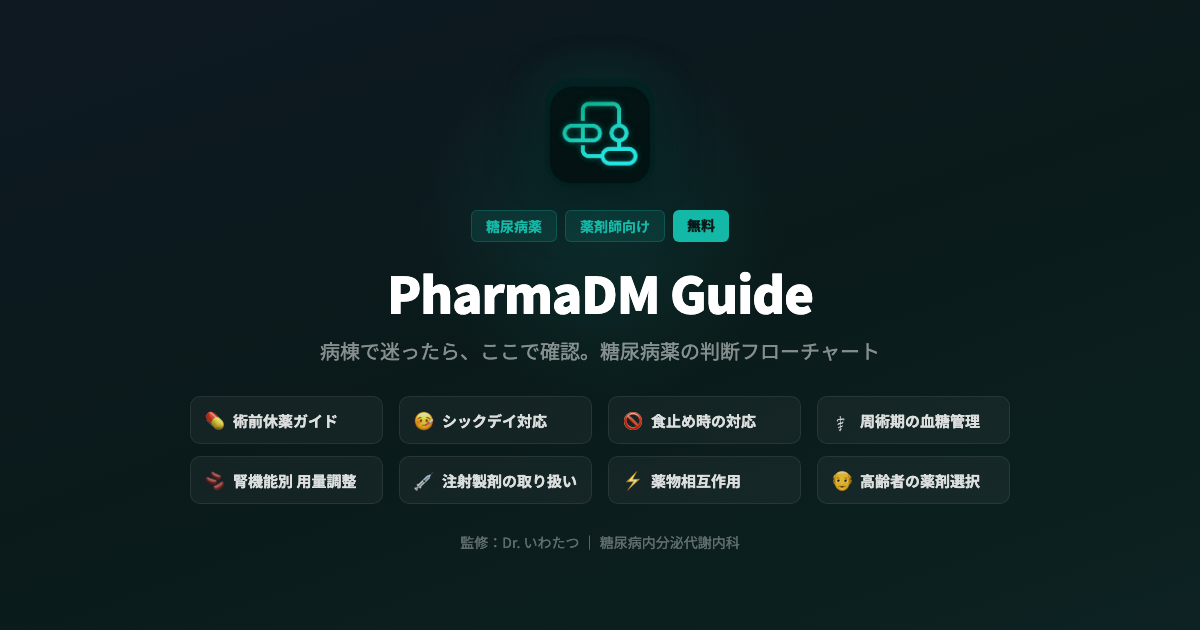
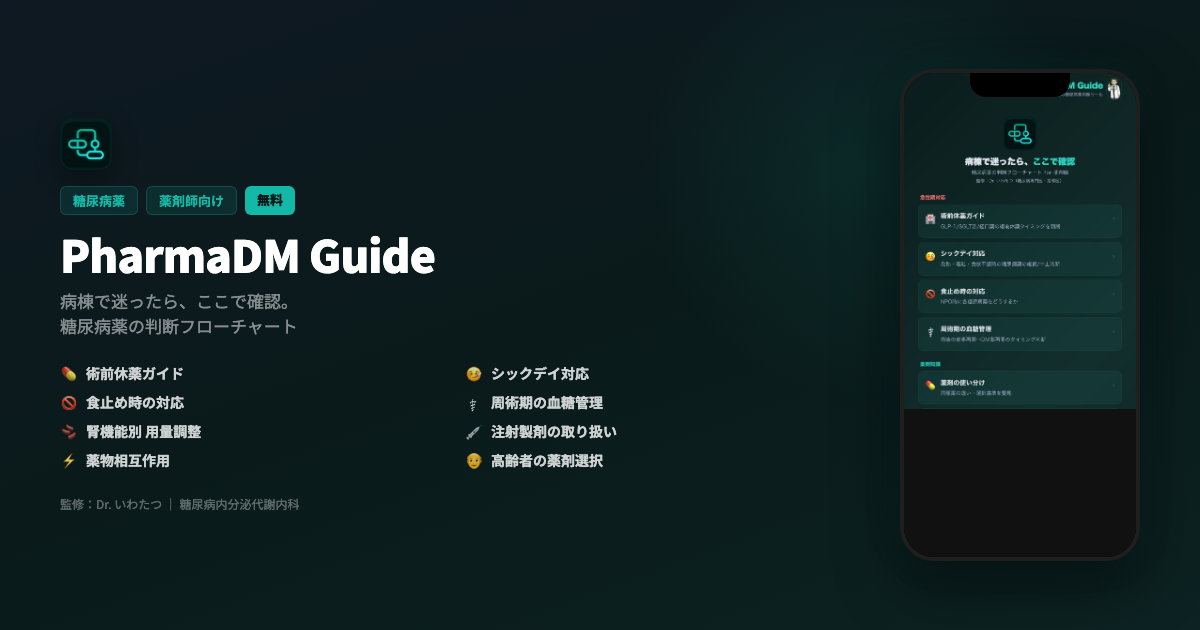
Move PharmaDM Guide to top of app list, add phone mockup to cover image

diff --git a/promo-images/pharma-dm-guide-thumb.html b/promo-images/pharma-dm-guide-thumb.html
@@ -11,48 +11,49 @@
     height: 630px;
     background: linear-gradient(160deg, #0f1923 0%, #0a1a1a 50%, #0d2222 100%);
     display: flex;
-    flex-direction: column;
     align-items: center;
-    justify-content: center;
     position: relative;
     overflow: hidden;
     font-family: 'Noto Sans JP', -apple-system, BlinkMacSystemFont, "Hiragino Sans", sans-serif;
-    text-align: center;
+    padding: 0 60px;
+    gap: 50px;
   }
   .card::after {
     content: '';
     position: absolute;
-    top: 20px;
-    left: 50%;
-    transform: translateX(-50%);
-    width: 400px;
-    height: 400px;
-    background: radial-gradient(circle, rgba(20,184,166,0.12) 0%, transparent 65%);
+    top: -80px;
+    right: 80px;
+    width: 500px;
+    height: 500px;
+    background: radial-gradient(circle, rgba(20,184,166,0.10) 0%, transparent 65%);
     border-radius: 50%;
   }
-  .content { position: relative; z-index: 1; }
+  .left {
+    flex: 1;
+    position: relative;
+    z-index: 1;
+  }
   .app-icon {
-    width: 110px;
-    height: 110px;
-    border-radius: 26px;
+    width: 52px;
+    height: 52px;
+    border-radius: 13px;
     overflow: hidden;
-    margin: 0 auto 22px;
-    box-shadow: 0 16px 50px rgba(0,0,0,0.5), 0 0 50px rgba(20,184,166,0.15);
+    margin-bottom: 16px;
+    box-shadow: 0 8px 24px rgba(0,0,0,0.4);
   }
   .app-icon img { width: 100%; height: 100%; object-fit: cover; }
   .badges {
     display: flex;
     gap: 8px;
-    justify-content: center;
     margin-bottom: 14px;
   }
   .badge {
     background: rgba(20,184,166,0.12);
     border: 1px solid rgba(20,184,166,0.25);
     border-radius: 6px;
-    padding: 5px 14px;
+    padding: 4px 12px;
     color: #14b8a6;
-    font-size: 14px;
+    font-size: 13px;
     font-weight: 700;
   }
   .badge-free {
@@ -62,47 +63,79 @@
     font-weight: 800;
   }
   .title {
-    font-size: 50px;
+    font-size: 44px;
     font-weight: 900;
     color: #fff;
     margin-bottom: 8px;
     letter-spacing: -0.02em;
+    line-height: 1.15;
   }
   .catchcopy {
-    font-size: 20px;
+    font-size: 17px;
     color: rgba(255,255,255,0.5);
-    margin-bottom: 30px;
+    margin-bottom: 24px;
     line-height: 1.5;
   }
   .features {
     display: grid;
-    grid-template-columns: 1fr 1fr 1fr 1fr;
-    gap: 12px 16px;
-    max-width: 960px;
-    margin: 0 auto 28px;
+    grid-template-columns: 1fr 1fr;
+    gap: 8px 20px;
+    margin-bottom: 24px;
   }
   .feature {
-    background: rgba(255,255,255,0.04);
-    border: 1px solid rgba(255,255,255,0.08);
-    border-radius: 10px;
-    padding: 10px 14px;
     display: flex;
     align-items: center;
     gap: 8px;
-    color: rgba(255,255,255,0.85);
-    font-size: 15px;
+    color: rgba(255,255,255,0.8);
+    font-size: 14px;
     font-weight: 600;
   }
-  .feature .icon { font-size: 16px; flex-shrink: 0; }
+  .feature .icon { font-size: 13px; flex-shrink: 0; width: 18px; text-align: center; }
   .author {
     color: rgba(255,255,255,0.35);
-    font-size: 14px;
+    font-size: 12px;
+  }
+  .right {
+    position: relative;
+    z-index: 1;
+    display: flex;
+    align-items: center;
+    justify-content: center;
+  }
+  .phone {
+    width: 240px;
+    height: 492px;
+    background: #000;
+    border-radius: 34px;
+    border: 4px solid rgba(255,255,255,0.12);
+    overflow: hidden;
+    box-shadow: 0 20px 60px rgba(0,0,0,0.6), 0 0 40px rgba(20,184,166,0.08);
+    position: relative;
+  }
+  .phone::before {
+    content: '';
+    position: absolute;
+    top: 0;
+    left: 50%;
+    transform: translateX(-50%);
+    width: 100px;
+    height: 24px;
+    background: #000;
+    border-radius: 0 0 16px 16px;
+    z-index: 2;
+  }
+  .phone img {
+    width: 100%;
+    height: 100%;
+    object-fit: contain;
+    object-position: top;
+    background: #111;
   }
 </style>
 </head>
 <body>
 <div class="card">
-  <div class="content">
+  <div class="left">
     <div class="app-icon">
       <img src="file:///Users/iwamototatsuya/Desktop/Claude-Projects/pharma-dm-guide/public/app-icon.png" alt="">
     </div>
@@ -112,7 +145,10 @@
       <span class="badge badge-free">無料</span>
     </div>
     <div class="title">PharmaDM Guide</div>
-    <div class="catchcopy">病棟で迷ったら、ここで確認。糖尿病薬の判断フローチャート</div>
+    <div class="catchcopy">
+      病棟で迷ったら、ここで確認。<br>
+      糖尿病薬の判断フローチャート
+    </div>
     <div class="features">
       <div class="feature"><span class="icon">💊</span> 術前休薬ガイド</div>
       <div class="feature"><span class="icon">🤒</span> シックデイ対応</div>
@@ -124,6 +160,11 @@
       <div class="feature"><span class="icon">👴</span> 高齢者の薬剤選択</div>
     </div>
     <div class="author">監修：Dr. いわたつ ｜ 糖尿病内分泌代謝内科</div>
+  </div>
+  <div class="right">
+    <div class="phone">
+      <img src="file:///Users/iwamototatsuya/Desktop/スクリーンショット 2026-06-01 16.57.43.png" alt="">
+    </div>
   </div>
 </div>
 </body>

diff --git a/lib/seed-apps.ts b/lib/seed-apps.ts
@@ -2,6 +2,24 @@ import type { AppData } from "@/components/app-card";
 
 export const SEED_APPS: AppData[] = [
   {
+    id: "16",
+    slug: "pharma-dm-guide",
+    name: "PharmaDM Guide",
+    tagline: "病棟で迷ったら、ここで確認。糖尿病薬の判断フローチャート",
+    description:
+      "薬剤師のための糖尿病薬 判断支援ツール。術前休薬ガイド、シックデイ対応、食止め時の対応、周術期の血糖管理、腎機能別用量調整、注射製剤の取り扱い、薬物相互作用、高齢者の薬剤選択など12のフローチャートを搭載。ステップバイステップの質問に答えるだけで、エビデンスに基づいた推奨アクション・根拠・注意点を表示します。スマートフォンに最適化されたUIで、病棟での即時参照が可能です。",
+    price: 0,
+    category: ["diabetes-endocrine"],
+    app_url: "https://pharma-dm-guide.vercel.app/",
+    demo_url: "https://pharma-dm-guide.vercel.app/",
+    thumbnail_url: "/thumbnails/thumbnail-pharma-dm-guide.png",
+    screenshots: [],
+    target_roles: ["pharmacists"],
+    developer_name: "岩本 達也",
+    developer_specialty: "糖尿病内分泌代謝内科",
+    access_count: 0,
+  },
+  {
     id: "1",
     slug: "dm-compass",
     name: "DM Compass",
@@ -268,24 +286,6 @@ export const SEED_APPS: AppData[] = [
     thumbnail_url: null,
     screenshots: [],
     target_roles: ["general"],
-    developer_name: "岩本 達也",
-    developer_specialty: "糖尿病内分泌代謝内科",
-    access_count: 0,
-  },
-  {
-    id: "16",
-    slug: "pharma-dm-guide",
-    name: "PharmaDM Guide",
-    tagline: "病棟で迷ったら、ここで確認。糖尿病薬の判断フローチャート",
-    description:
-      "薬剤師のための糖尿病薬 判断支援ツール。術前休薬ガイド、シックデイ対応、食止め時の対応、周術期の血糖管理、腎機能別用量調整、注射製剤の取り扱い、薬物相互作用、高齢者の薬剤選択など12のフローチャートを搭載。ステップバイステップの質問に答えるだけで、エビデンスに基づいた推奨アクション・根拠・注意点を表示します。スマートフォンに最適化されたUIで、病棟での即時参照が可能です。",
-    price: 0,
-    category: ["diabetes-endocrine"],
-    app_url: "https://pharma-dm-guide.vercel.app/",
-    demo_url: "https://pharma-dm-guide.vercel.app/",
-    thumbnail_url: "/thumbnails/thumbnail-pharma-dm-guide.png",
-    screenshots: [],
-    target_roles: ["pharmacists"],
     developer_name: "岩本 達也",
     developer_specialty: "糖尿病内分泌代謝内科",
     access_count: 0,
